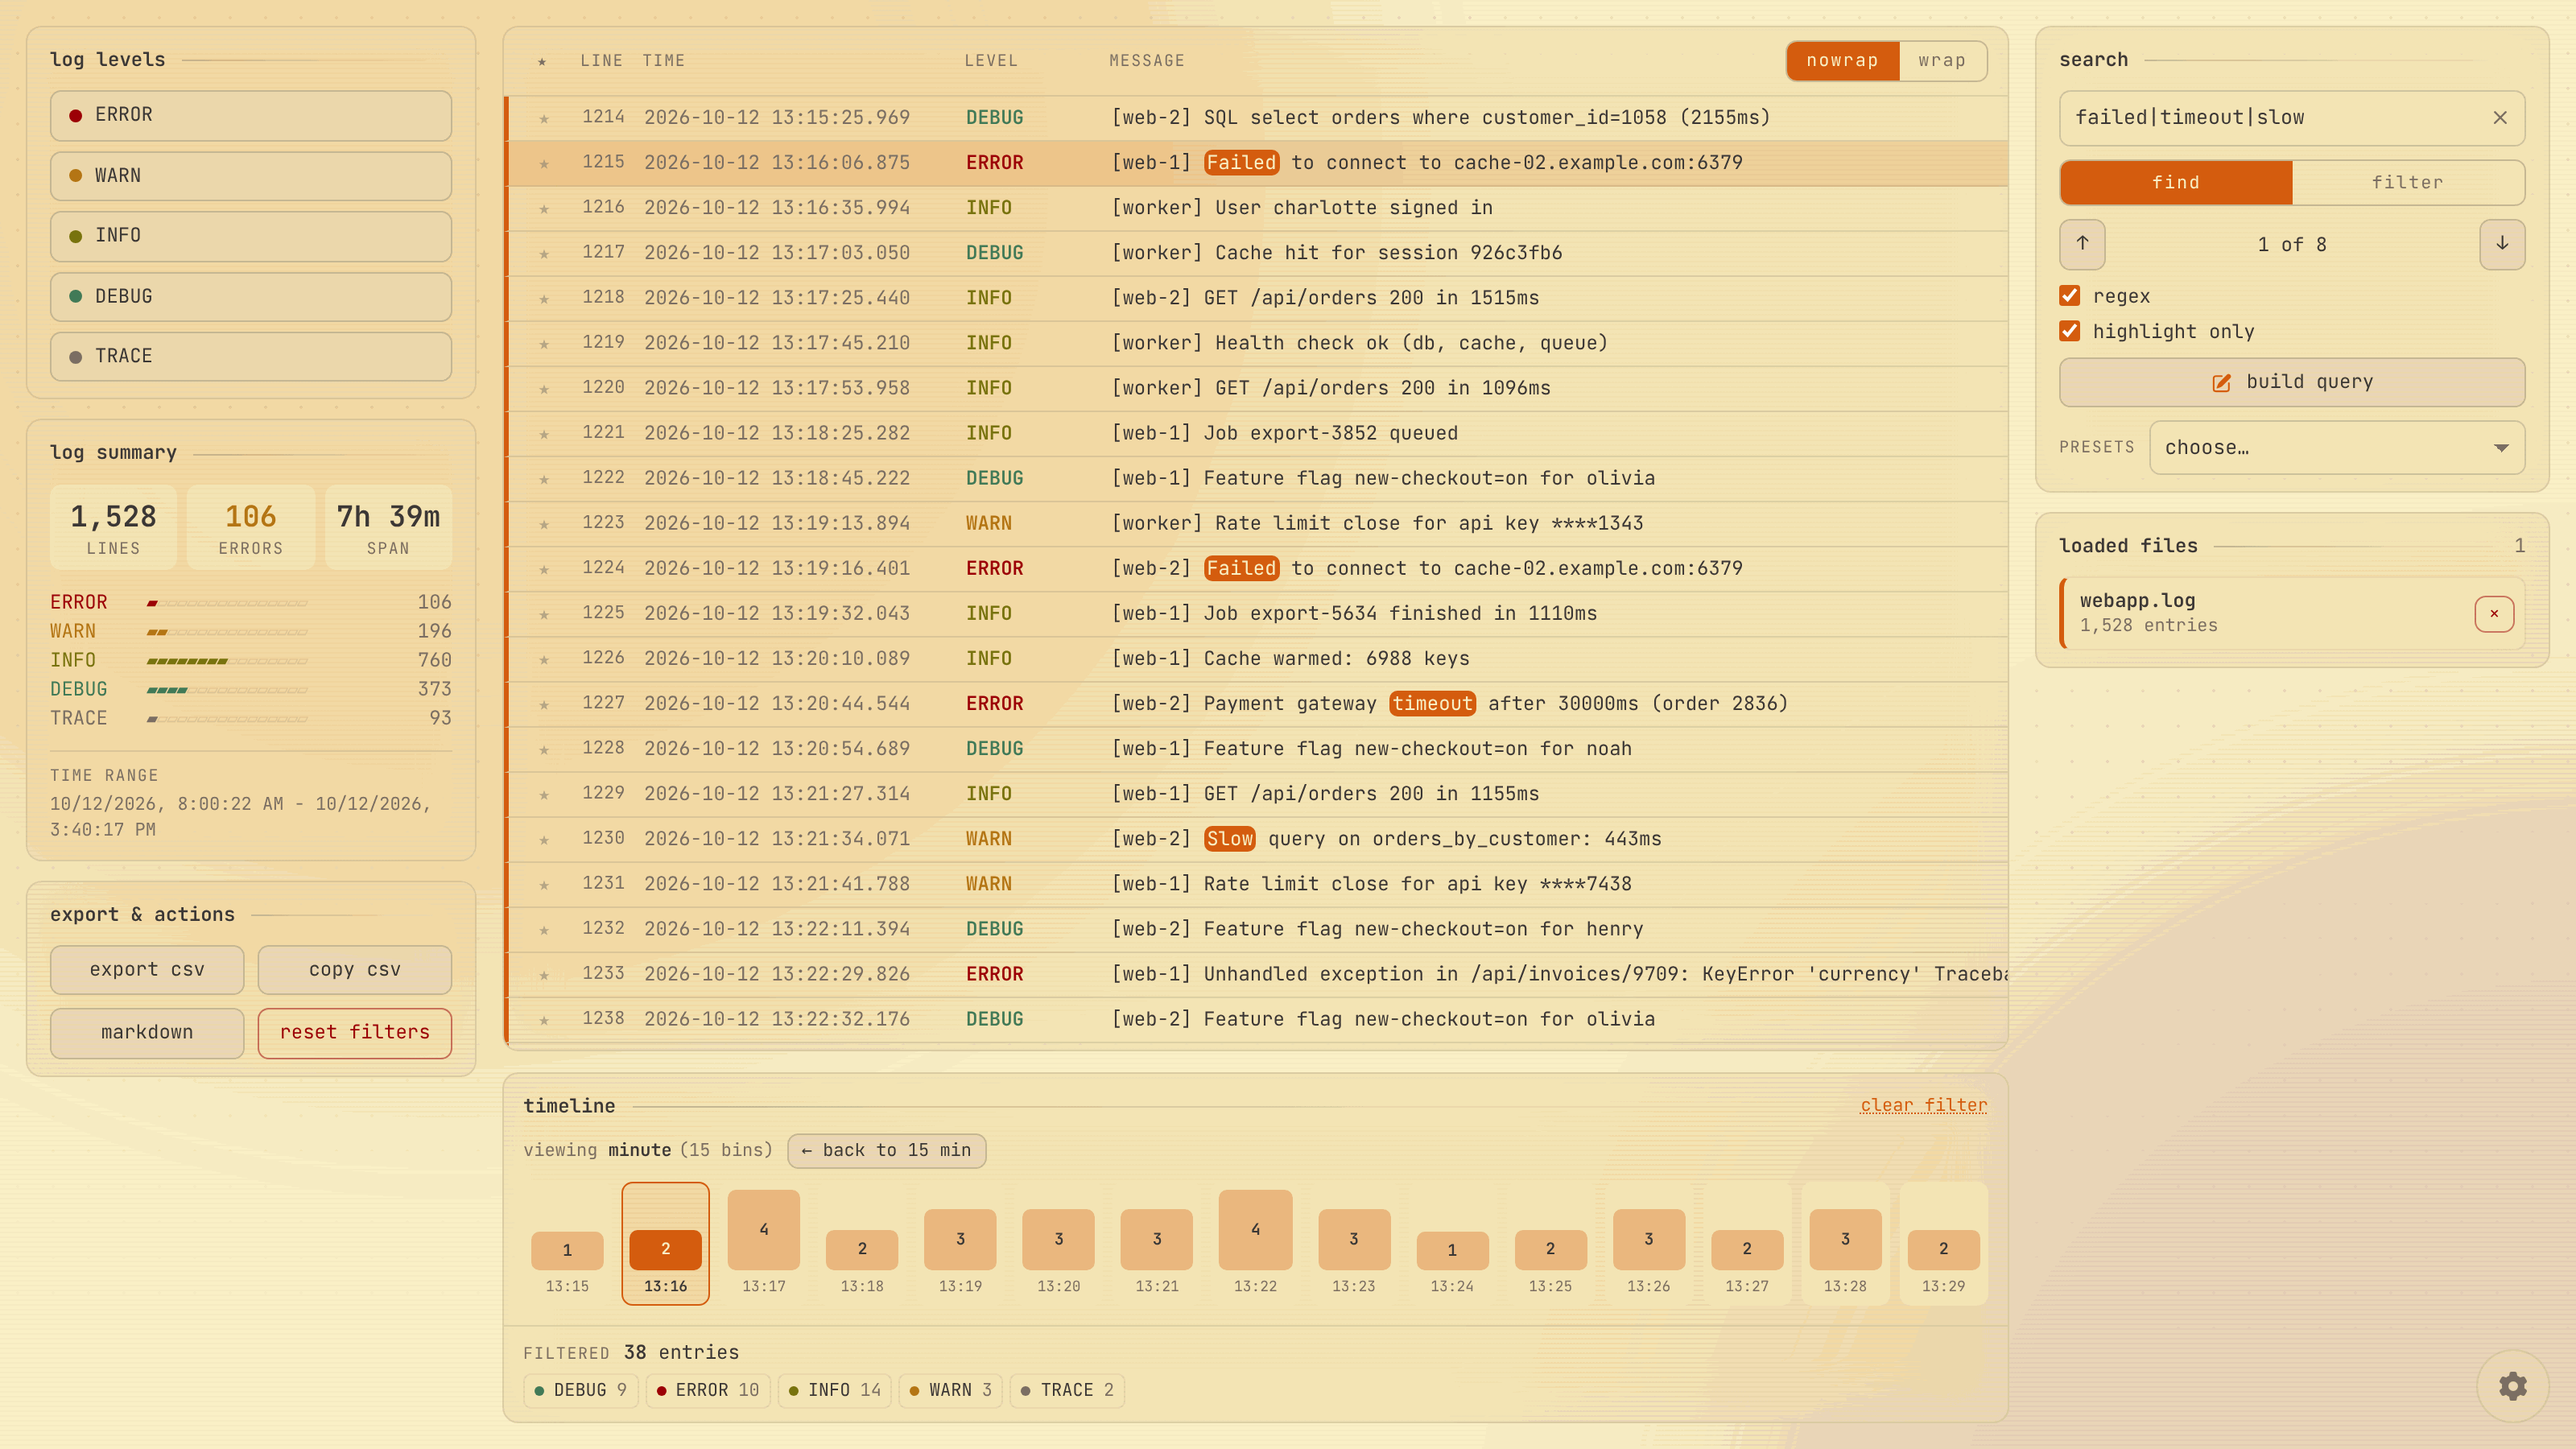
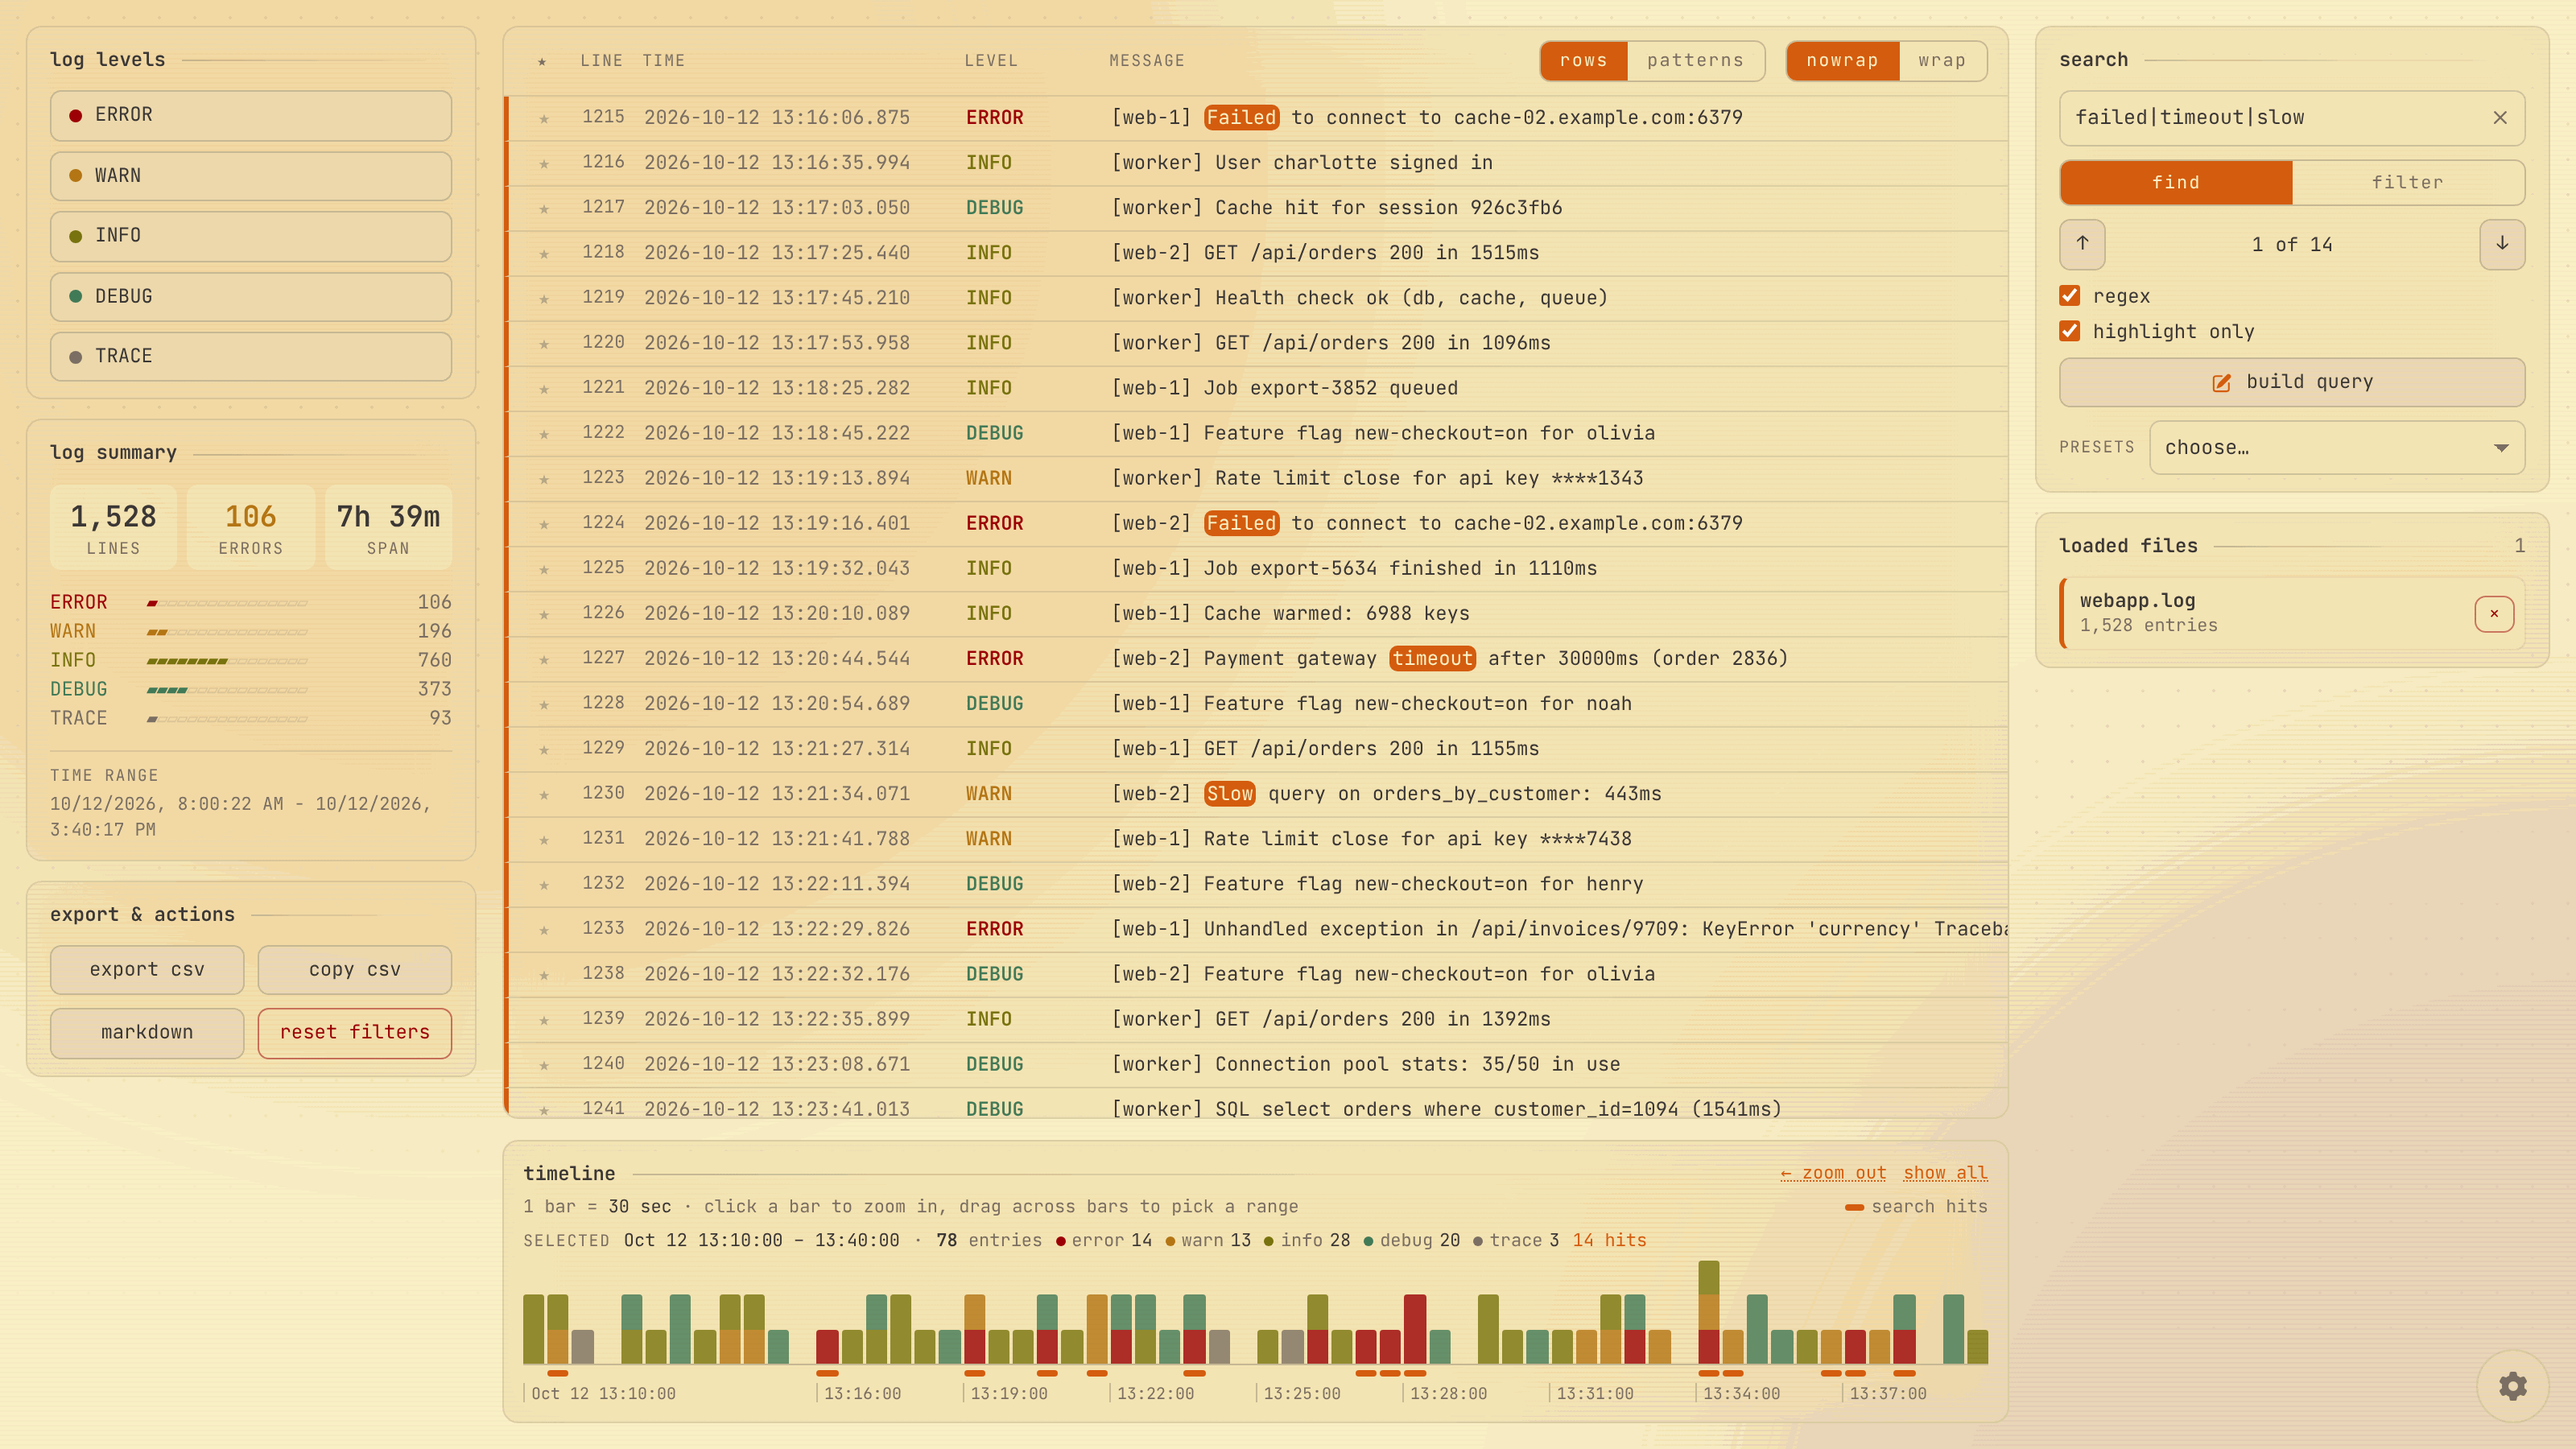
Retake README screenshots with timeline v2 and add the patterns view
Claude-Session: https://claude.ai/code/session_011KVRi2VR9R38a1YjdrbnMX

diff --git a/README.md b/README.md
@@ -72,11 +72,14 @@ A fast, client‑side log viewer built with Vite + React + TypeScript. Drag and 
 - **Airlock summary**: Auto-detected for Airlock Digital logs (modal with 71 fields grouped into Agent, Host, Server connection, Policy and Executions; Windows, Linux and macOS agents, including 7.x debug logs from all three). Click a value to search the log for the lines behind it
 
 ## Screenshots
-Two logs loaded together, with find mode jumping between search hits, the log summary and the timeline:
+Two logs loaded together, with find mode jumping between search hits, the log summary and the stacked timeline with search hits marked under it:
 ![Main view with two files loaded, a find search, the log summary and the timeline](docs/screenshots/main-view.png)
 
-Highlight-only regex search, drilled into fifteen minutes of the timeline (gruvbox, light):
-![Highlight-only regex search with the timeline drilled into minutes](docs/screenshots/highlight-search.png)
+Highlight-only regex search after dragging across the timeline to pick half an hour (gruvbox, light):
+![Highlight-only regex search with the timeline zoomed into a half-hour range](docs/screenshots/highlight-search.png)
+
+The patterns view, which groups similar lines and shows when each one happened:
+![Patterns view listing grouped log lines with counts and sparklines](docs/screenshots/patterns.png)
 
 The query builder, with any-of terms, an exclusion and a live preview:
 ![Query builder with three terms, one exclusion and a preview of matching lines](docs/screenshots/query-builder.png)
